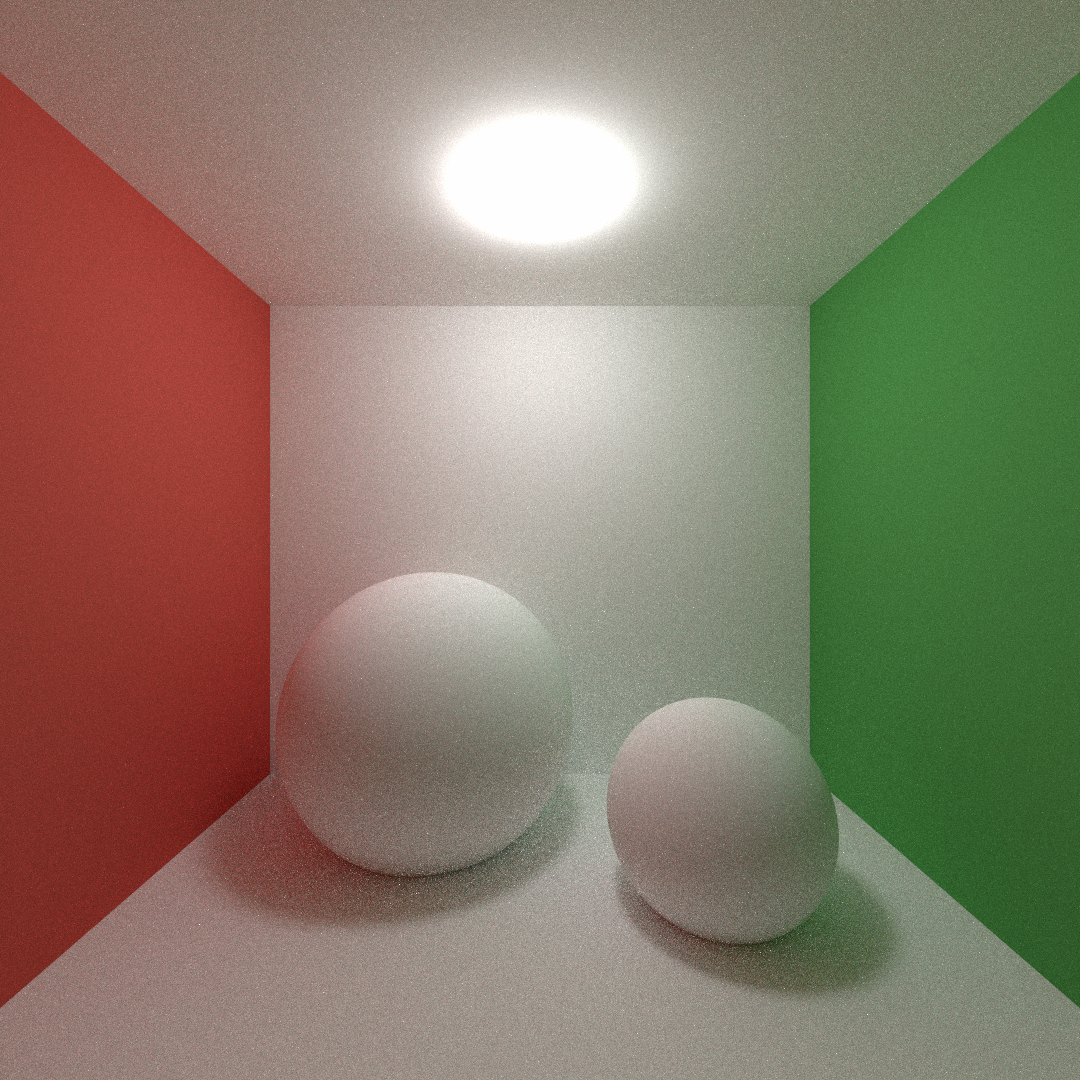
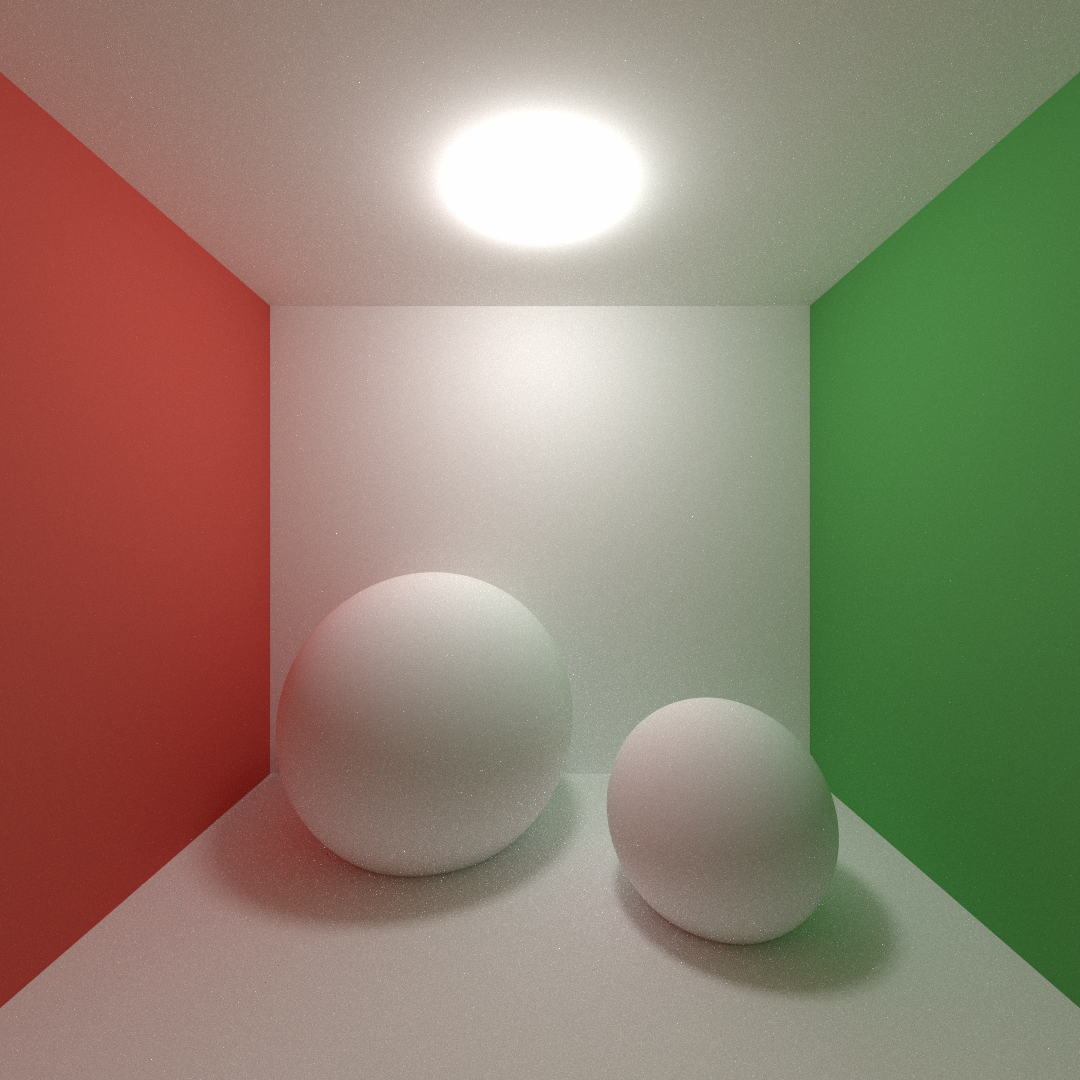
fix(renderer): 将rr_prob应用于BSDF PDF计算

diff --git a/main.cpp b/main.cpp
@@ -4,6 +4,7 @@
 #include <random>
 #include <vector>
 constexpr float PI = 3.14159265358979323846f;
+constexpr float rr_prob = 0.9f;
 struct Vec3 {
   float x;
   float y;
@@ -159,7 +160,7 @@ Vec3 Ldir(Vec3 wo, Sphere const *light_sphereconst, HitInfo &hit_info,
   float cos_theta = dot(info.wk, hit_info.normal);
   Vec3 f_r_val = f_r(info.wk, wo, hit_info.sphere->color);
   float pdf_bsdf = bsdf_pdf(info.wk);
-  float w = mis_weight(info.pdf, pdf_bsdf);
+  float w = mis_weight(info.pdf, pdf_bsdf * rr_prob);
   Vec3 L_dir = f_r_val * info.Le * cos_theta * (w / info.pdf);
   return L_dir;
 }
@@ -167,7 +168,6 @@ Vec3 Lo(Ray ray, const std::vector<Sphere> &spheres, int depth,
         float prev_pdf) {
   if (depth <= 0)
     return Vec3();
-
   HitInfo nearest_hit;
   nearest_hit.t = 1e10;
   nearest_hit.is_hit = false;
@@ -186,12 +186,11 @@ Vec3 Lo(Ray ray, const std::vector<Sphere> &spheres, int depth,
     if (prev_pdf == 0.0f)
       return Le;
     float p_light = light_pdf(*light_sphere, ray.origin, nearest_hit.position);
-    float w = mis_weight(prev_pdf, p_light);
+    float w = mis_weight(prev_pdf * rr_prob, p_light);
     return Le * w;
   }
   Vec3 wo = -ray.direction;
   Vec3 L_dir = Ldir(wo, light_sphere, nearest_hit, spheres);
-  float rr_prob = 0.9f;
   if (random_float() > rr_prob)
     return L_dir;
   Vec3 wi = sample_bsdf(nearest_hit.normal);
@@ -206,7 +205,7 @@ Vec3 Lo(Ray ray, const std::vector<Sphere> &spheres, int depth,
   return L_dir + L_indir;
 }
 int main() {
-  int image_width = 516, image_height = 516;
+  int image_width = 1080, image_height = 1080;
   std::vector<Vec3> framebuffer(image_width * image_height);
   int samples_per_pixel = 1024;
   constexpr float R = 1000.0f;
